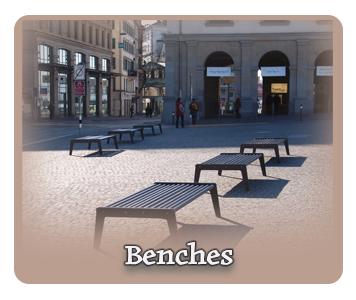
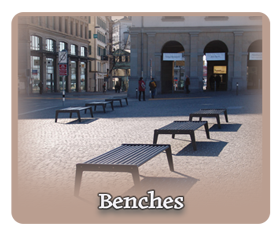
resize of OW images

diff --git a/src/app/overwhelm/ow-components/OWOptionsChecklist.js b/src/app/overwhelm/ow-components/OWOptionsChecklist.js
@@ -23,7 +23,7 @@ const BenchCard = () => {
       src="/img/benches.png"
       alt="Tour of Belfast"
       width={280}
-      height={250}
+      height={236}
       priority
     />
   );
@@ -35,7 +35,7 @@ const ToiletsCard = () => {
       src="/img/toilets.png"
       alt="Tour of Belfast"
       width={280}
-      height={250}
+      height={236}
       priority
     />
   );
@@ -47,7 +47,7 @@ const CafesCard = () => {
       src="/img/cozy-cafes.png"
       alt="Tour of Belfast"
       width={280}
-      height={250}
+      height={236}
       priority
     />
   );

diff --git a/src/app/page.tsx b/src/app/page.tsx
@@ -5,15 +5,16 @@ import "./page.module.css";
 
 <html lang="en">
   <head>
-    <meta name="viewport" content="initial-scale=1, width=device-width, no-cache" http-equiv='cache-control'/>
+    <meta
+      name="viewport"
+      content="initial-scale=1, width=device-width, no-cache"
+      http-equiv="cache-control"
+    />
     <title>Tours of Belfast</title>
   </head>
   <body></body>
 </html>;
 
 export default function App() {
-  return (
-
-        <Homepage />
-  );
+  return <Homepage />;
 }
